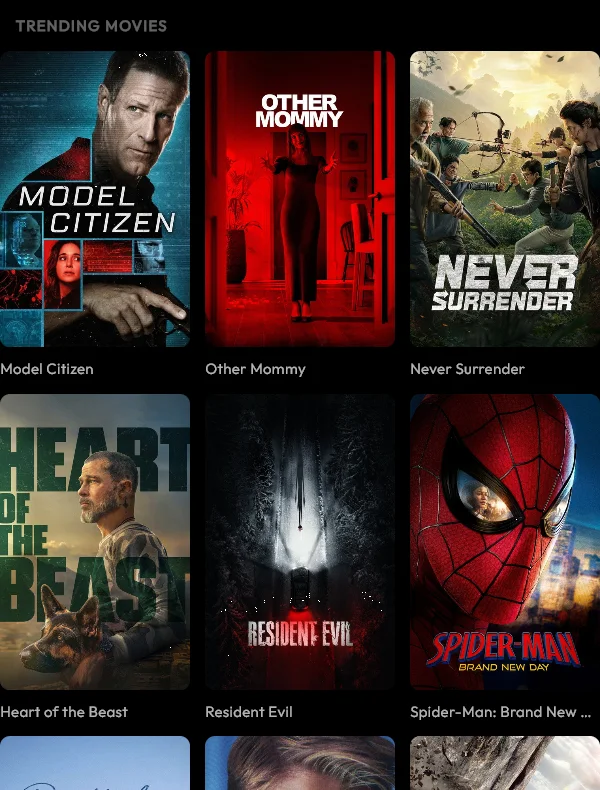
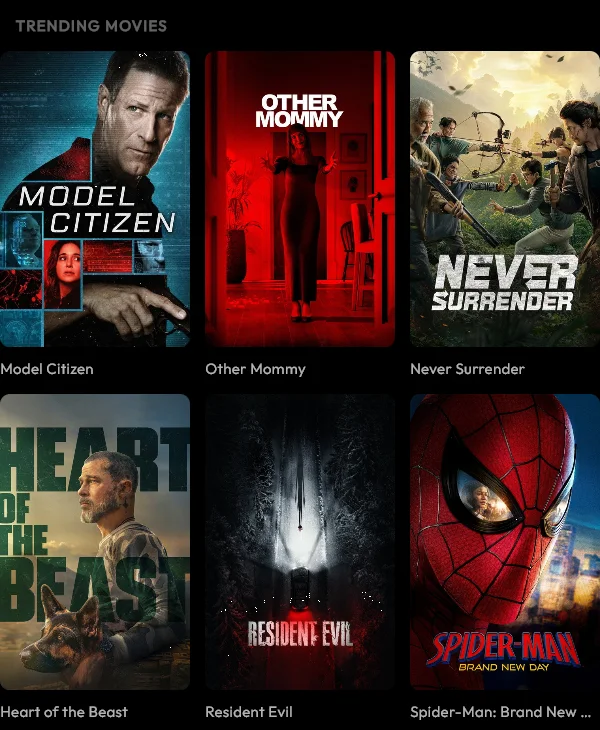
Features: whole phone screens, and Search ending on a full row
The phone screenshots were cut at the top and bottom, and the first
frame stretched past its picture; they're now the whole screen (status
bar included) at their own heights. The Windows Search picture ends
after a full row of posters.

diff --git a/docs/features/index.html b/docs/features/index.html
@@ -38,8 +38,8 @@
   .shot img { width: 100%; }
   .shot.tall { max-width: 420px; }
   .shot.lead { margin-bottom: clamp(48px, 7vw, 96px); }
-  .shot.phone { max-width: 300px; border-radius: 28px; }
-  .phones { display: flex; justify-content: center; gap: clamp(16px, 3vw, 32px); }
+  .shot.phone { max-width: 280px; border-radius: 30px; flex: 1 1 0; }
+  .phones { display: flex; justify-content: center; align-items: flex-start; gap: clamp(16px, 3vw, 32px); }
   .phones .shot:nth-child(2) { margin-top: 48px; }
   .feature.wide .words { max-width: 720px; }
   @media (min-width: 900px) {
@@ -182,7 +182,7 @@
       <p>What's trending this week, the top 10 in Search, cast pages, trailers, My List and Continue Watching.</p>
       <p>And if a film is on Netflix, Prime Video, Disney+ or another service where you live, its logo is right by Play: one tap opens it in that app.</p>
     </div>
-    <figure class="shot tall"><img src="../assets/shots/search.webp" width="600" height="790" alt="Search on Windows before typing: this week's trending films" loading="lazy"></figure>
+    <figure class="shot tall"><img src="../assets/shots/search.webp" width="600" height="730" alt="Search on Windows before typing: this week's trending films" loading="lazy"></figure>
   </section>
 
   <section class="feature">
@@ -196,8 +196,8 @@
       </ul>
     </div>
     <div class="phones">
-      <figure class="shot phone"><img src="../assets/shots/phone-search.webp" width="720" height="1133" alt="Search on an Android phone, showing this week's trending films" loading="lazy"></figure>
-      <figure class="shot phone"><img src="../assets/shots/phone-details.webp" width="720" height="1200" alt="Possible Love's page on a phone, with Play Movie and a Netflix logo" loading="lazy"></figure>
+      <figure class="shot phone"><img src="../assets/shots/phone-search.webp" width="720" height="1433" alt="Search on an Android phone, showing this week's trending films" loading="lazy"></figure>
+      <figure class="shot phone"><img src="../assets/shots/phone-details.webp" width="720" height="1433" alt="Possible Love's page on a phone, with Play Movie and a Netflix logo" loading="lazy"></figure>
     </div>
   </section>
 
